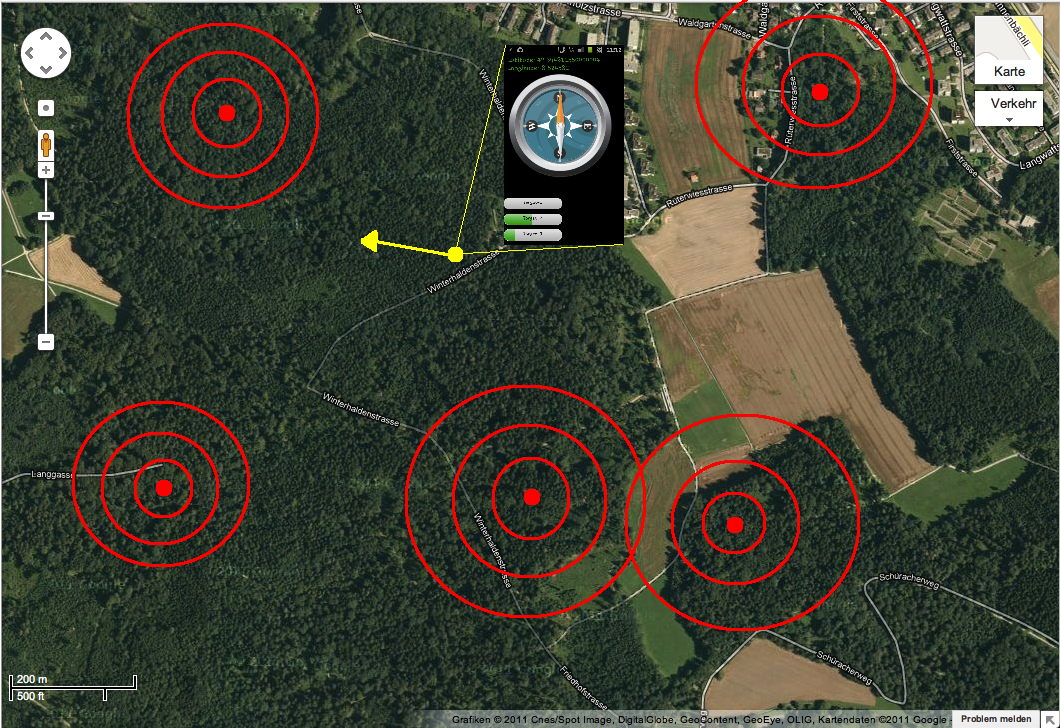
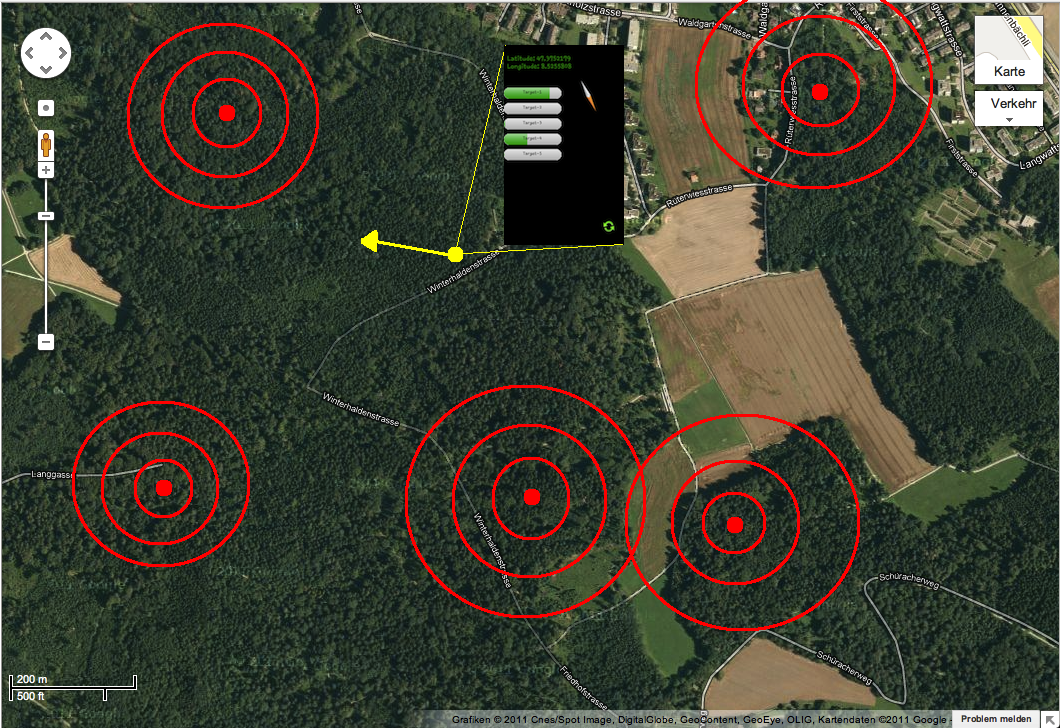
tarik additions

Changed region(s): [[0.467, 0.0604, 0.5915, 0.2418], [0.467, 0.272, 0.5292, 0.3324], [0.5604, 0.3022, 0.5915, 0.3324]]

diff --git a/index.html b/index.html
@@ -25,27 +25,26 @@
         <h2>Orientierungslauf und Amateurfunk</h2>
     </div>
 
-    <div class="step" data-x="1500" data-y="0">
-        <ul>
-            <li>Image - Karte</li>
-        </ul>
+    <div class="step" data-x="1400" data-y="0">
+        <img src="img/map.png"  width="1800" height="1236">
     </div>
 
     <div class="step" data-x="2500" data-y="0">
-        <ul>
-            <li>Nach dem ersten Weltkrieg</li>
-        </ul>
+        <h2>Nach dem ersten Weltkrieg</h2>
     </div>
 
 
 	<div class="step" data-x="-1500" data-y="0">
+		<h2>Als schöne Wanderung oder kräftezehrender Lauf</h2>
     	<ul>
-            <li>Als schöne Wanderung oder kräftezehrender Lauf</li>
+			<li>Fuchswanderung</li>
+			<li>Grossraum-Fuchsjagd</li>
+            <li>Foxoring</li>
         </ul>
 	</div>
 
-	<div class="step" data-x="-1500" data-y="1500" data-rotate="180">
-        <h2>Die App</h2>
+	<div class="step" data-x="-1500" data-y="1500" data-rotate="180" style="vertical-align: middle;">
+	        <h2>Die App <img src="img/app.png" style="position: absolute; right:10px;"/></h2>
     </div>
 
     <div class="step" data-x="-1500" data-y="750" data-rotate="180" data-scale="1">
@@ -61,14 +60,17 @@
     </div>
 		
     <div class="step" data-x="0" data-y="1500" data-rotate="270">
-    	<ul>
-            <li>Dynamisches HTML</li>
+    	<h2>Dynamisches HTML</h2>
+		<ul>
+			<li>Dynamische Ziele</li>
+			<li>Dynamische Bilder</li>
         </ul>
     </div>
 	
     <div class="step" data-x="500" data-y="1500" data-rotate="270">
-    	<ul>
-            <li>Objektorientiertes Java Script</li>
+    	<h2>Objektorientiertes Java Script</h2>
+		<ul>
+			<li>Das Target-Object</li>
         </ul>
     </div>
 
